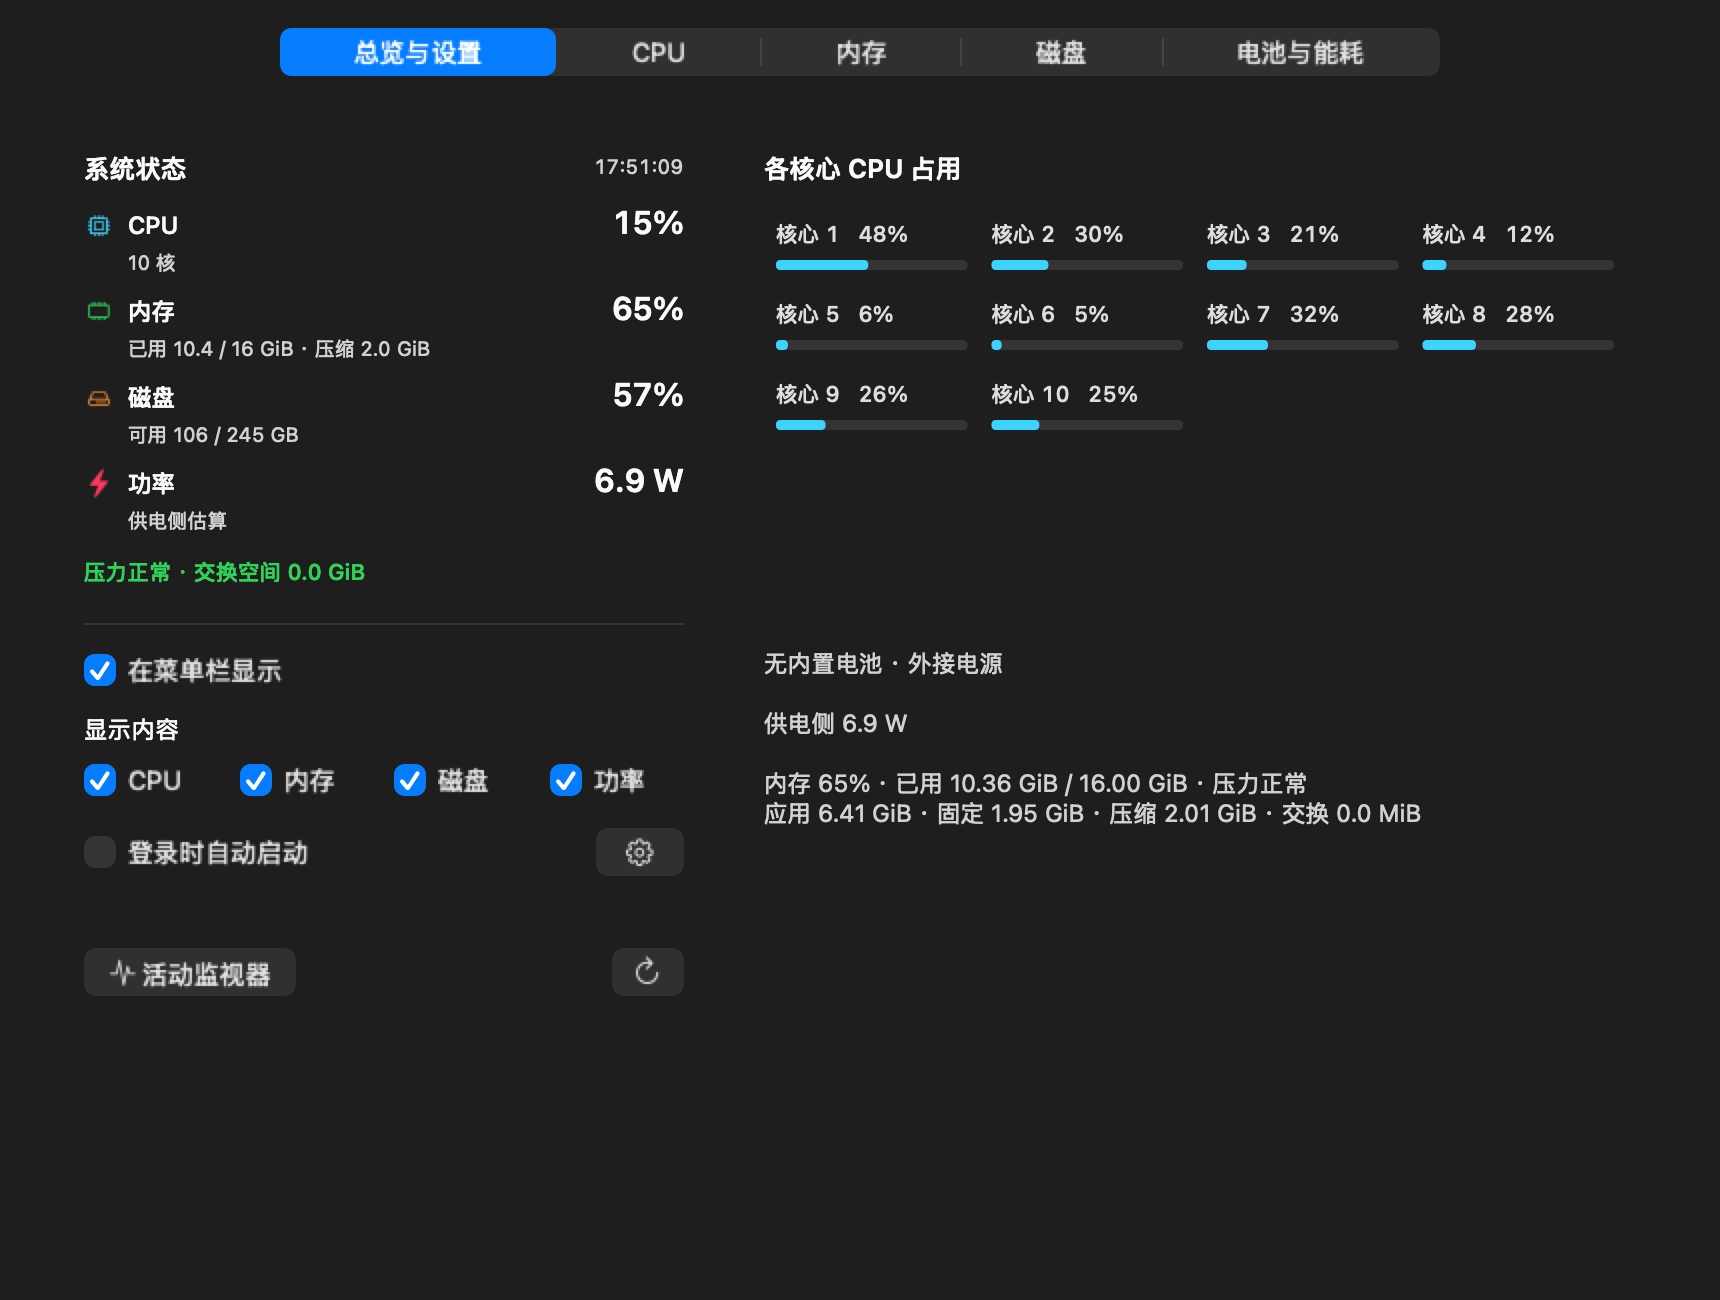
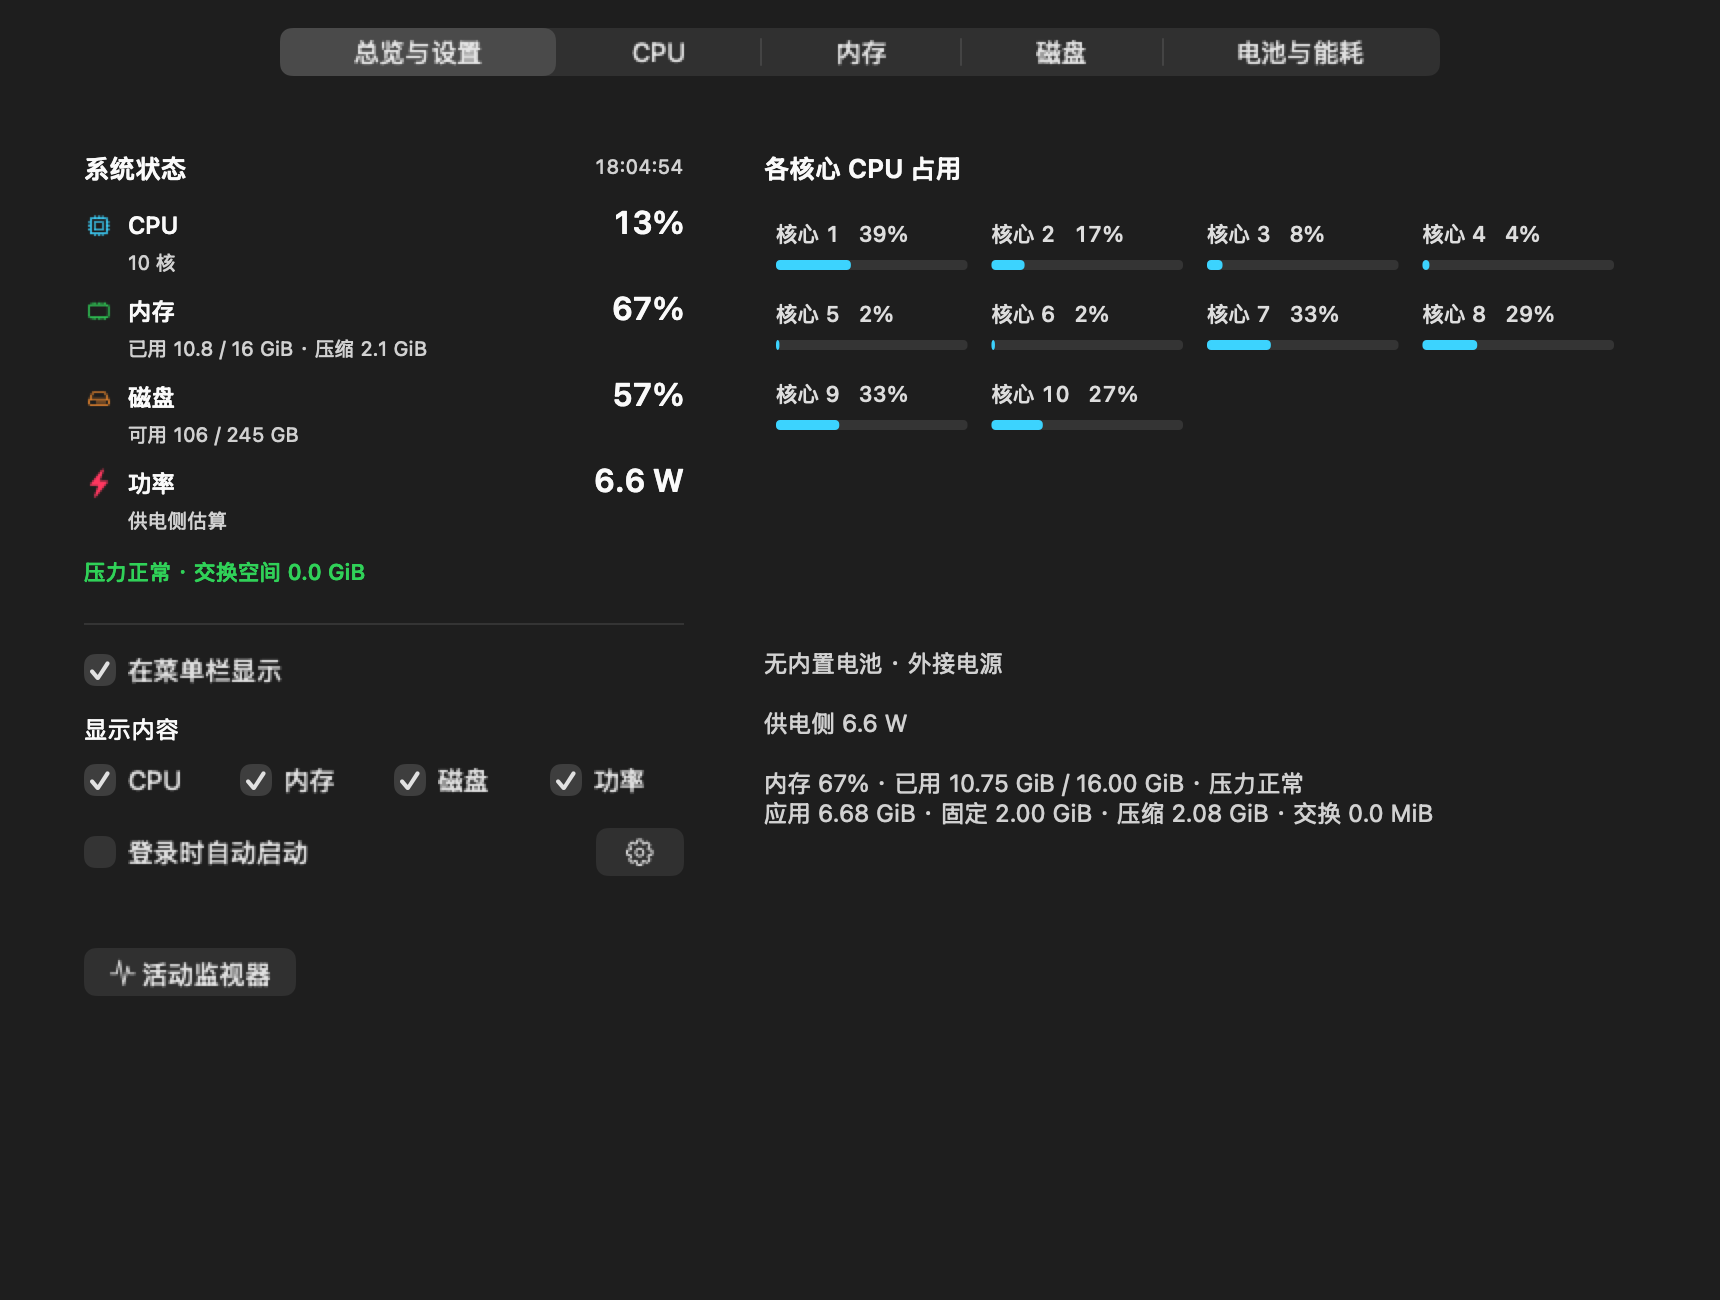
Show per-core CPU and battery in status menu and remove widget actions

diff --git a/NativeHost.swift b/NativeHost.swift
@@ -14,6 +14,7 @@ final class NativeHostDelegate: NSObject, NSApplicationDelegate, NSWindowDelegat
     private var launchedAtLogin = false
     private var snapshot: MetricsSnapshot?
     private var statusMenuIsOpen = false
+    private var resourceWindowNeedsSampling = false
 
     init(defaults: UserDefaults = .standard) {
         preferences = MonitorPreferences(defaults: defaults)
@@ -31,10 +32,15 @@ final class NativeHostDelegate: NSObject, NSApplicationDelegate, NSWindowDelegat
             return
         }
         if CommandLine.arguments.contains("--widget-status") {
-            reportConfigurations(exitAfter: true)
+            reportConfigurations()
             return
         }
         configureApplicationMenu()
+        detailMonitor.onSample = { [weak self] details in
+            guard let self else { return }
+            self.statusMenuView.updateDetails(details)
+            if self.resourceWindowNeedsSampling { self.dashboard?.updateDetails(details) }
+        }
         applyMenuBarPreference()
         launchedAtLogin = launchedAtLogin || LoginLaunch.isLoginItem(NSAppleEventManager.shared().currentAppleEvent)
         if LoginLaunch.shouldShowWindow(isLoginItem: launchedAtLogin, menuBarEnabled: preferences.menuBarEnabled) {
@@ -76,7 +82,6 @@ final class NativeHostDelegate: NSObject, NSApplicationDelegate, NSWindowDelegat
         statusMenuView.onOpenMonitor = { [weak self] in self?.showResourceMonitor() }
         statusMenuView.onDisable = { [weak self] in self?.disableMenuBar() }
         statusMenuView.onQuit = { [weak self] in self?.quit() }
-        statusMenuView.onRefresh = { [weak self] in self?.refreshWidgets() }
         updateStatusItem()
     }
 
@@ -98,8 +103,21 @@ final class NativeHostDelegate: NSObject, NSApplicationDelegate, NSWindowDelegat
         statusItem.button?.setAccessibilityLabel(title.isEmpty ? "系统状态" : "系统状态，\(title)")
     }
 
-    func menuWillOpen(_ menu: NSMenu) { statusMenuIsOpen = true }
-    func menuDidClose(_ menu: NSMenu) { statusMenuIsOpen = false; updateStatusItem() }
+    func menuWillOpen(_ menu: NSMenu) {
+        statusMenuIsOpen = true
+        if !resourceWindowNeedsSampling { statusMenuView.updateDetails(nil) }
+        updateDetailedSampling()
+    }
+    func menuDidClose(_ menu: NSMenu) {
+        statusMenuIsOpen = false
+        updateStatusItem()
+        updateDetailedSampling()
+    }
+
+    private func updateDetailedSampling() {
+        if statusMenuIsOpen || resourceWindowNeedsSampling { detailMonitor.start() }
+        else { detailMonitor.stop() }
+    }
 
     private func applyMenuBarPreference() {
         if preferences.menuBarEnabled {
@@ -136,14 +154,12 @@ final class NativeHostDelegate: NSObject, NSApplicationDelegate, NSWindowDelegat
             view.onLoginItemToggle = { [weak self] in self?.toggleLoginItem() }
             view.onLoginItemSettings = { [weak self] in self?.loginItem.openSettings() }
             view.onActivityMonitor = { [weak self] in self?.openActivityMonitor() }
-            view.onRefreshWidgets = { [weak self] in self?.refreshWidgets() }
             view.updatePreferences(preferences)
             if let snapshot { view.metricsView.update(snapshot) }
             resourceView = view
             let dashboard = ResourceDashboardView(configuration: view)
             self.dashboard = dashboard
             if let snapshot { dashboard.update(snapshot) }
-            detailMonitor.onSample = { [weak self] in self?.dashboard?.updateDetails($0) }
             let window = NSWindow(contentRect: dashboard.frame, styleMask: [.titled, .closable, .miniaturizable, .resizable], backing: .buffered, defer: false)
             window.title = "资源监视"
             window.level = .normal
@@ -158,7 +174,8 @@ final class NativeHostDelegate: NSObject, NSApplicationDelegate, NSWindowDelegat
         NSApp.setActivationPolicy(.regular)
         window?.makeKeyAndOrderFront(nil)
         NSApp.activate(ignoringOtherApps: true)
-        detailMonitor.start()
+        resourceWindowNeedsSampling = true
+        updateDetailedSampling()
     }
 
     private func toggleLoginItem() {
@@ -176,13 +193,14 @@ final class NativeHostDelegate: NSObject, NSApplicationDelegate, NSWindowDelegat
     }
 
     func windowWillClose(_ notification: Notification) {
-        detailMonitor.stop()
+        resourceWindowNeedsSampling = false
+        updateDetailedSampling()
         dashboard?.disk.cancel()
         if preferences.menuBarEnabled { NSApp.setActivationPolicy(.accessory) }
     }
 
-    func windowDidMiniaturize(_ notification: Notification) { detailMonitor.stop() }
-    func windowDidDeminiaturize(_ notification: Notification) { detailMonitor.start() }
+    func windowDidMiniaturize(_ notification: Notification) { resourceWindowNeedsSampling = false; updateDetailedSampling() }
+    func windowDidDeminiaturize(_ notification: Notification) { resourceWindowNeedsSampling = true; updateDetailedSampling() }
 
     func applicationShouldTerminateAfterLastWindowClosed(_ sender: NSApplication) -> Bool {
         !preferences.menuBarEnabled
@@ -230,33 +248,19 @@ final class NativeHostDelegate: NSObject, NSApplicationDelegate, NSWindowDelegat
         return item
     }
 
-    @objc private func refreshWidgets() { WidgetCenter.shared.reloadAllTimelines() }
-    @objc private func showStatus() { reportConfigurations(exitAfter: false) }
     @objc private func quit() { NSApp.terminate(nil) }
 
-    private func reportConfigurations(exitAfter: Bool) {
+    private func reportConfigurations() {
         WidgetCenter.shared.getCurrentConfigurations { result in
             DispatchQueue.main.async {
                 switch result {
                 case .success(let configurations):
-                    if exitAfter {
-                        let data = try! JSONSerialization.data(withJSONObject: configurations.map { ["kind": $0.kind, "family": String(describing: $0.family)] }, options: [.prettyPrinted, .sortedKeys])
-                        print(String(data: data, encoding: .utf8)!)
-                        NSApp.terminate(nil)
-                    } else {
-                        let alert = NSAlert()
-                        alert.messageText = "系统状态"
-                        alert.informativeText = "已添加 \(configurations.count) 个原生小组件。"
-                        alert.runModal()
-                    }
+                    let data = try! JSONSerialization.data(withJSONObject: configurations.map { ["kind": $0.kind, "family": String(describing: $0.family)] }, options: [.prettyPrinted, .sortedKeys])
+                    print(String(data: data, encoding: .utf8)!)
+                    NSApp.terminate(nil)
                 case .failure(let error):
-                    if exitAfter {
-                        fputs("Widget status: \(error)\n", stderr)
-                        exit(1)
-                    } else {
-                        let alert = NSAlert(error: error)
-                        alert.runModal()
-                    }
+                    fputs("Widget status: \(error)\n", stderr)
+                    exit(1)
                 }
             }
         }

diff --git a/StatusMenuView.swift b/StatusMenuView.swift
@@ -2,15 +2,27 @@ import AppKit
 
 final class StatusMenuView: NSView {
     let metrics = MenuBarContentView()
+    let cores = CoreUsageView()
+    private let battery = NSTextField(wrappingLabelWithString: "正在读取电池信息")
     let toggles = MenuBarMetric.allCases.map { NSButton(checkboxWithTitle: $0.label, target: nil, action: nil) }
     var onSelection: ((Set<MenuBarMetric>) -> Void)?
     var onOpenMonitor: (() -> Void)?
     var onDisable: (() -> Void)?
     var onQuit: (() -> Void)?
-    var onRefresh: (() -> Void)?
 
     init() {
-        super.init(frame: NSRect(x: 0, y: 0, width: 324, height: 382))
+        super.init(frame: NSRect(x: 0, y: 0, width: 380, height: 604))
+        let coreTitle = NSTextField(labelWithString: "各核心 CPU 占用")
+        coreTitle.font = .systemFont(ofSize: 12, weight: .medium)
+        let coreScroll = NSScrollView()
+        coreScroll.hasVerticalScroller = true; coreScroll.drawsBackground = false
+        coreScroll.documentView = cores
+        cores.translatesAutoresizingMaskIntoConstraints = false
+        cores.update(Array(repeating: nil, count: ProcessInfo.processInfo.processorCount))
+        let batteryTitle = NSTextField(labelWithString: "电池")
+        batteryTitle.font = .systemFont(ofSize: 12, weight: .medium)
+        battery.font = .systemFont(ofSize: 11)
+        battery.textColor = .secondaryLabelColor
         let label = NSTextField(labelWithString: "显示内容")
         label.font = .systemFont(ofSize: 11, weight: .medium)
         let choices = NSStackView(views: toggles)
@@ -22,17 +34,23 @@ final class StatusMenuView: NSView {
         open.image = NSImage(systemSymbolName: "chart.bar.xaxis", accessibilityDescription: nil)
         open.imagePosition = .imageLeading
         open.bezelStyle = .rounded
-        let refresh = tool("arrow.clockwise", "请求刷新桌面小组件", #selector(refresh))
         let hide = tool("eye.slash", "关闭菜单栏显示", #selector(disable))
         let quit = tool("power", "退出系统状态", #selector(quit))
-        let commands = NSStackView(views: [open, refresh, hide, quit])
+        let commands = NSStackView(views: [open, hide, quit])
         commands.orientation = .horizontal
         commands.spacing = 8
-        for view in [metrics, label, choices, commands] { view.translatesAutoresizingMaskIntoConstraints = false; addSubview(view) }
+        for view in [metrics, coreTitle, coreScroll, batteryTitle, battery, label, choices, commands] { view.translatesAutoresizingMaskIntoConstraints = false; addSubview(view) }
         NSLayoutConstraint.activate([
             metrics.topAnchor.constraint(equalTo: topAnchor), metrics.leadingAnchor.constraint(equalTo: leadingAnchor),
             metrics.trailingAnchor.constraint(equalTo: trailingAnchor), metrics.heightAnchor.constraint(equalToConstant: 244),
-            label.leadingAnchor.constraint(equalTo: leadingAnchor, constant: 14), label.topAnchor.constraint(equalTo: metrics.bottomAnchor, constant: 8),
+            coreTitle.leadingAnchor.constraint(equalTo: leadingAnchor, constant: 14), coreTitle.topAnchor.constraint(equalTo: metrics.bottomAnchor, constant: 4),
+            coreScroll.leadingAnchor.constraint(equalTo: coreTitle.leadingAnchor), coreScroll.trailingAnchor.constraint(equalTo: trailingAnchor, constant: -14),
+            coreScroll.topAnchor.constraint(equalTo: coreTitle.bottomAnchor, constant: 8), coreScroll.heightAnchor.constraint(equalToConstant: 128),
+            cores.leadingAnchor.constraint(equalTo: coreScroll.contentView.leadingAnchor), cores.trailingAnchor.constraint(equalTo: coreScroll.contentView.trailingAnchor), cores.topAnchor.constraint(equalTo: coreScroll.contentView.topAnchor),
+            batteryTitle.leadingAnchor.constraint(equalTo: coreTitle.leadingAnchor), batteryTitle.topAnchor.constraint(equalTo: coreScroll.bottomAnchor, constant: 12),
+            battery.leadingAnchor.constraint(equalTo: coreTitle.leadingAnchor), battery.trailingAnchor.constraint(equalTo: coreScroll.trailingAnchor),
+            battery.topAnchor.constraint(equalTo: batteryTitle.bottomAnchor, constant: 6), battery.heightAnchor.constraint(equalToConstant: 42),
+            label.leadingAnchor.constraint(equalTo: leadingAnchor, constant: 14), label.topAnchor.constraint(equalTo: battery.bottomAnchor, constant: 8),
             choices.topAnchor.constraint(equalTo: label.bottomAnchor, constant: 10), choices.leadingAnchor.constraint(equalTo: label.leadingAnchor),
             choices.trailingAnchor.constraint(equalTo: trailingAnchor, constant: -14), choices.heightAnchor.constraint(equalToConstant: 22),
             commands.topAnchor.constraint(equalTo: choices.bottomAnchor, constant: 20), commands.leadingAnchor.constraint(equalTo: label.leadingAnchor),
@@ -49,11 +67,15 @@ final class StatusMenuView: NSView {
     func updateSelection(_ selected: Set<MenuBarMetric>) {
         for (index, metric) in MenuBarMetric.allCases.enumerated() { toggles[index].state = selected.contains(metric) ? .on : .off }
     }
+    func updateDetails(_ details: DetailedSnapshot?) {
+        cores.update(details?.cores ?? Array(repeating: nil, count: ProcessInfo.processInfo.processorCount))
+        battery.stringValue = details == nil ? "正在读取电池信息" : (details?.battery?.summary ?? "无内置电池 · 外接电源")
+        battery.toolTip = battery.stringValue
+    }
     @objc private func changeSelection() {
         onSelection?(Set(MenuBarMetric.allCases.enumerated().compactMap { toggles[$0.offset].state == .on ? $0.element : nil }))
     }
     @objc private func openMonitor() { enclosingMenuItem?.menu?.cancelTracking(); onOpenMonitor?() }
     @objc private func disable() { enclosingMenuItem?.menu?.cancelTracking(); onDisable?() }
     @objc private func quit() { enclosingMenuItem?.menu?.cancelTracking(); onQuit?() }
-    @objc private func refresh() { onRefresh?() }
 }

diff --git a/ResourceMonitorWindow.swift b/ResourceMonitorWindow.swift
@@ -77,7 +77,6 @@ final class ResourceMonitorContentView: NSView {
     var onLoginItemToggle: (() -> Void)?
     var onLoginItemSettings: (() -> Void)?
     var onActivityMonitor: (() -> Void)?
-    var onRefreshWidgets: (() -> Void)?
 
     init() {
         super.init(frame: NSRect(x: 0, y: 0, width: 340, height: 454))
@@ -106,10 +105,7 @@ final class ResourceMonitorContentView: NSView {
         activity.bezelStyle = .rounded
         activity.image = NSImage(systemSymbolName: "waveform.path.ecg", accessibilityDescription: nil)
         activity.imagePosition = .imageLeading
-        let refresh = NSButton(image: NSImage(systemSymbolName: "arrow.clockwise", accessibilityDescription: "刷新桌面小组件")!, target: self, action: #selector(refreshWidgets))
-        refresh.bezelStyle = .rounded
-        refresh.toolTip = "请求刷新桌面小组件"
-        for view in [metricsView, separator, menuBarToggle, label, choices, loginItemToggle, loginSettings, activity, refresh] {
+        for view in [metricsView, separator, menuBarToggle, label, choices, loginItemToggle, loginSettings, activity] {
             view.translatesAutoresizingMaskIntoConstraints = false
             addSubview(view)
         }
@@ -136,10 +132,7 @@ final class ResourceMonitorContentView: NSView {
             loginSettings.centerYAnchor.constraint(equalTo: loginItemToggle.centerYAnchor),
             loginSettings.widthAnchor.constraint(equalToConstant: 44),
             activity.leadingAnchor.constraint(equalTo: separator.leadingAnchor),
-            activity.bottomAnchor.constraint(equalTo: bottomAnchor, constant: -16),
-            refresh.trailingAnchor.constraint(equalTo: separator.trailingAnchor),
-            refresh.centerYAnchor.constraint(equalTo: activity.centerYAnchor),
-            refresh.widthAnchor.constraint(equalToConstant: 36)
+            activity.bottomAnchor.constraint(equalTo: bottomAnchor, constant: -16)
         ])
     }
 
@@ -179,5 +172,4 @@ final class ResourceMonitorContentView: NSView {
         onMetricsChanged?(Set(selected))
     }
     @objc private func openActivity() { onActivityMonitor?() }
-    @objc private func refreshWidgets() { onRefreshWidgets?() }
 }

diff --git a/README.md b/README.md
@@ -2,13 +2,13 @@
 
 原生 macOS 资源监视、可选菜单栏监控与桌面小组件。查看各核心 CPU、进程内存、目录容量、电池与进程 CPU 能耗，并由用户选择退出进程。资源监视使用普通窗口，不会置顶。
 
-当前版本：**3.0.0**。安装后的应用和小组件名称均为 **“系统状态”**。
+当前版本：**3.1.0**。安装后的应用和小组件名称均为 **“系统状态”**。
 
 ## 下载安装
 
-**[下载安装包：MacPulse Widget 3.0.0（M 系列 Mac）](https://github.com/qwer8856/MACPulse-widget/releases/download/v3.0.0/MACPulse-Widget-v3.0.0-macOS-arm64.zip)**
+**[下载安装包：MacPulse Widget 3.1.0（M 系列 Mac）](https://github.com/qwer8856/MACPulse-widget/releases/download/v3.1.0/MACPulse-Widget-v3.1.0-macOS-arm64.zip)**
 
-[版本发布页与校验文件](https://github.com/qwer8856/MACPulse-widget/releases/tag/v3.0.0)
+[版本发布页与校验文件](https://github.com/qwer8856/MACPulse-widget/releases/tag/v3.1.0)
 
 需要 Apple Silicon Mac（M 系列）和 macOS 14 或更新版本。
 
@@ -42,15 +42,17 @@
 
 菜单栏的 CPU、内存、磁盘、功率复选框支持**一次展开连续多选**，选择一项不会自动关闭菜单。全部取消时仅显示图标。展开期间固定顶部项目宽度，关闭菜单后应用新的显示组合；菜单中的采样数值继续更新。选择结果与窗口同步并保存。
 
-菜单栏和登录启动默认关闭，由用户自行选择。未启用菜单栏时，关闭资源窗口即退出应用；启用后，关闭窗口保留菜单栏监控，详细进程采样会停止。再次打开窗口后恢复详细采样。
+**点击右上角菜单栏，即可查看每个逻辑核心的 CPU 百分比、内存、磁盘、供电功率和电池信息**，无需先打开资源窗口。核心较多时可滚动查看；电池信息包含系统可提供的电量、充电/供电状态、预计时间和健康状态，无内置电池的 Mac 会明确显示。菜单已移除“刷新小组件”和“查看小组件状态”入口，资源窗口也不再显示手动刷新小组件按钮。
+
+菜单栏和登录启动默认关闭，由用户自行选择。未启用菜单栏时，关闭资源窗口即退出应用；启用后，关闭窗口保留菜单栏监控。资源窗口关闭或最小化且菜单收起时停止详细采样；再次打开窗口或展开菜单后恢复。
 
 自启使用 macOS 原生登录项，可在应用内取消，也可在“系统设置 → 通用 → 登录项与扩展”管理。开关显示系统实际状态；如显示“待批准”，点击齿轮进入系统设置确认。登录启动时，已启用菜单栏则仅显示菜单栏，否则打开资源窗口。手动打开应用会显示窗口。
 
 ## 刷新频率
 
-- **资源监视与菜单栏约每秒采样一次**，菜单展开期间也会更新。详细进程采样仅在资源窗口打开且未最小化时运行。
+- **资源监视与菜单栏约每秒采样一次**，菜单展开期间也会更新。仅展开菜单时，各核心与电池信息仍会持续采样；打开后的首个 CPU 采样间隔可能显示 `--`。
 - **真正的 WidgetKit 桌面小组件无法保证每秒刷新。** 应用内置了 1 秒后的刷新请求，但实际执行由 macOS 的刷新预算、节能策略和可见状态决定；没有公开接口能强制每秒采集并重绘。
-- 点击刷新按钮也只是请求系统更新桌面小组件。计时文本的自动变化不等于 CPU、内存数据重新采样。
+- 计时文本的自动变化不等于 CPU、内存数据重新采样。
 - 功率传感器自身可能约一分钟才更新一次；程序每秒读取不代表传感器每秒产生新值。超过 3 分钟的功率读数会隐藏，超过 15 分钟的整份小组件采样显示“等待更新”。
 - 应用退出后，桌面小组件仍由系统独立调度。不同显示位置采样时间不同，读数可能暂时不同。
 
@@ -89,10 +91,10 @@
 <img src="docs/images/disk.png" width="700" alt="测试目录的已分配容量与比例">
 <img src="docs/images/energy.png" width="700" alt="电池信息和进程 CPU 能耗排名">
 
-### 菜单栏连续多选
+### 菜单栏详情与连续多选
 
-<img src="docs/images/menu-light.png" width="300" alt="支持连续多选显示内容的菜单栏详情">
-<img src="docs/images/menu-dark.png" width="300" alt="深色菜单栏详情">
+<img src="docs/images/menu-light.png" width="380" alt="菜单栏中的各核心 CPU、内存、磁盘、电池信息及连续多选">
+<img src="docs/images/menu-dark.png" width="380" alt="深色菜单栏详情">
 
 ### 桌面小组件
 
